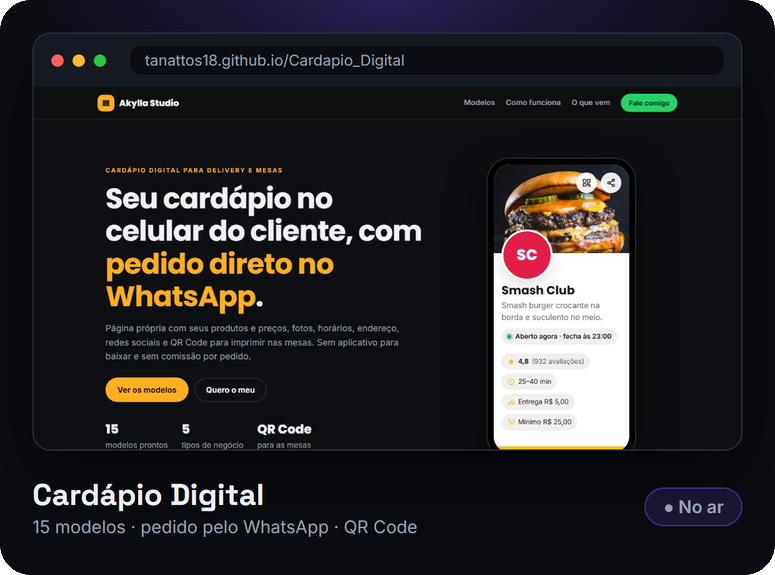
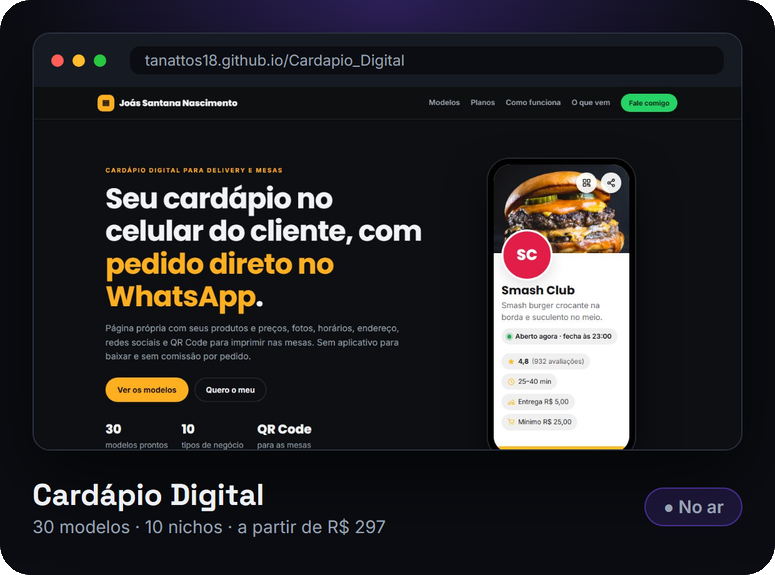
Atualiza o Cardápio Digital: 30 modelos e planos a partir de R$ 297

diff --git a/profile/README.md b/profile/README.md
@@ -40,7 +40,7 @@ Não é mockup: são produtos reais, criados, publicados e mantidos por nós. Cl
     <td width="50%"><a href="https://akyllagestao.com.br"><img src="https://raw.githubusercontent.com/akyllastudio/.github/main/assets/produto-akylla-gestao.png" alt="Akylla Gestão" width="100%"></a></td>
   </tr>
   <tr>
-    <td colspan="2" align="center"><a href="https://tanattos18.github.io/Cardapio_Digital/"><img src="https://raw.githubusercontent.com/akyllastudio/.github/main/assets/produto-cardapio-digital.png" alt="Cardápio Digital: vitrine com 15 modelos" width="50%"></a><br><b><a href="https://tanattos18.github.io/Cardapio_Digital/">Ver os 15 modelos de cardápio digital →</a></b></td>
+    <td colspan="2" align="center"><a href="https://tanattos18.github.io/Cardapio_Digital/"><img src="https://raw.githubusercontent.com/akyllastudio/.github/main/assets/produto-cardapio-digital.png?v=2" alt="Cardápio Digital: vitrine com 30 modelos" width="50%"></a><br><b><a href="https://tanattos18.github.io/Cardapio_Digital/">Ver os 30 modelos de cardápio digital (a partir de R$ 297) →</a></b></td>
   </tr>
 </table>
 
@@ -50,7 +50,7 @@ Produtos próprios que configuramos com a **sua marca** e o **seu jeito de traba
 
 <table>
   <tr>
-    <td width="50%"><a href="https://akyllastudio.github.io/#solucao-cardapio-digital"><img src="https://raw.githubusercontent.com/akyllastudio/.github/main/assets/solucao-cardapio-digital.png" alt="Cardápio Digital" width="100%"></a></td>
+    <td width="50%"><a href="https://akyllastudio.github.io/#solucao-cardapio-digital"><img src="https://raw.githubusercontent.com/akyllastudio/.github/main/assets/solucao-cardapio-digital.png?v=2" alt="Cardápio Digital" width="100%"></a></td>
     <td width="50%"><a href="https://akyllastudio.github.io/#solucao-petflow"><img src="https://raw.githubusercontent.com/akyllastudio/.github/main/assets/solucao-petflow.png" alt="PetFlow" width="100%"></a></td>
   </tr>
   <tr>
